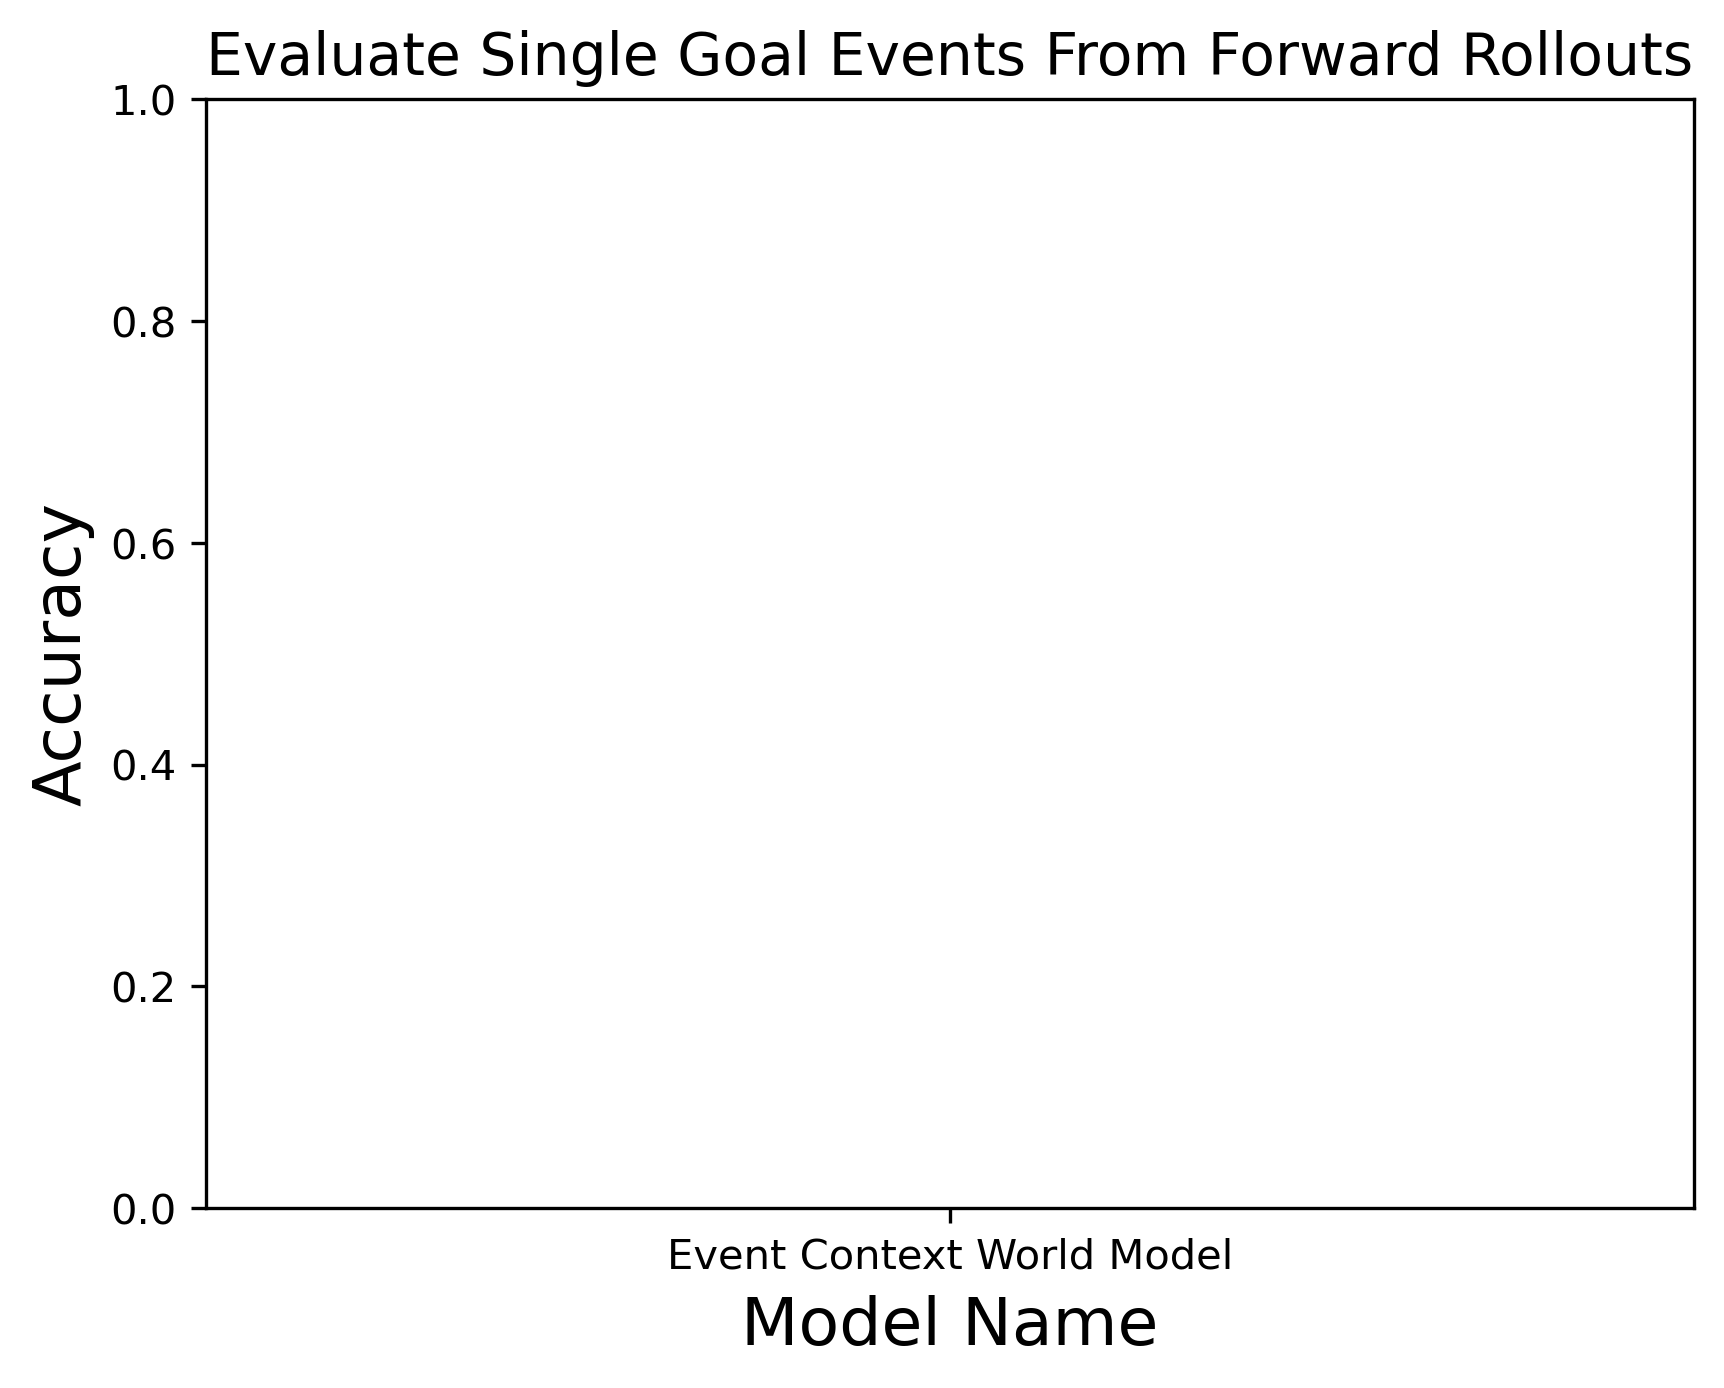
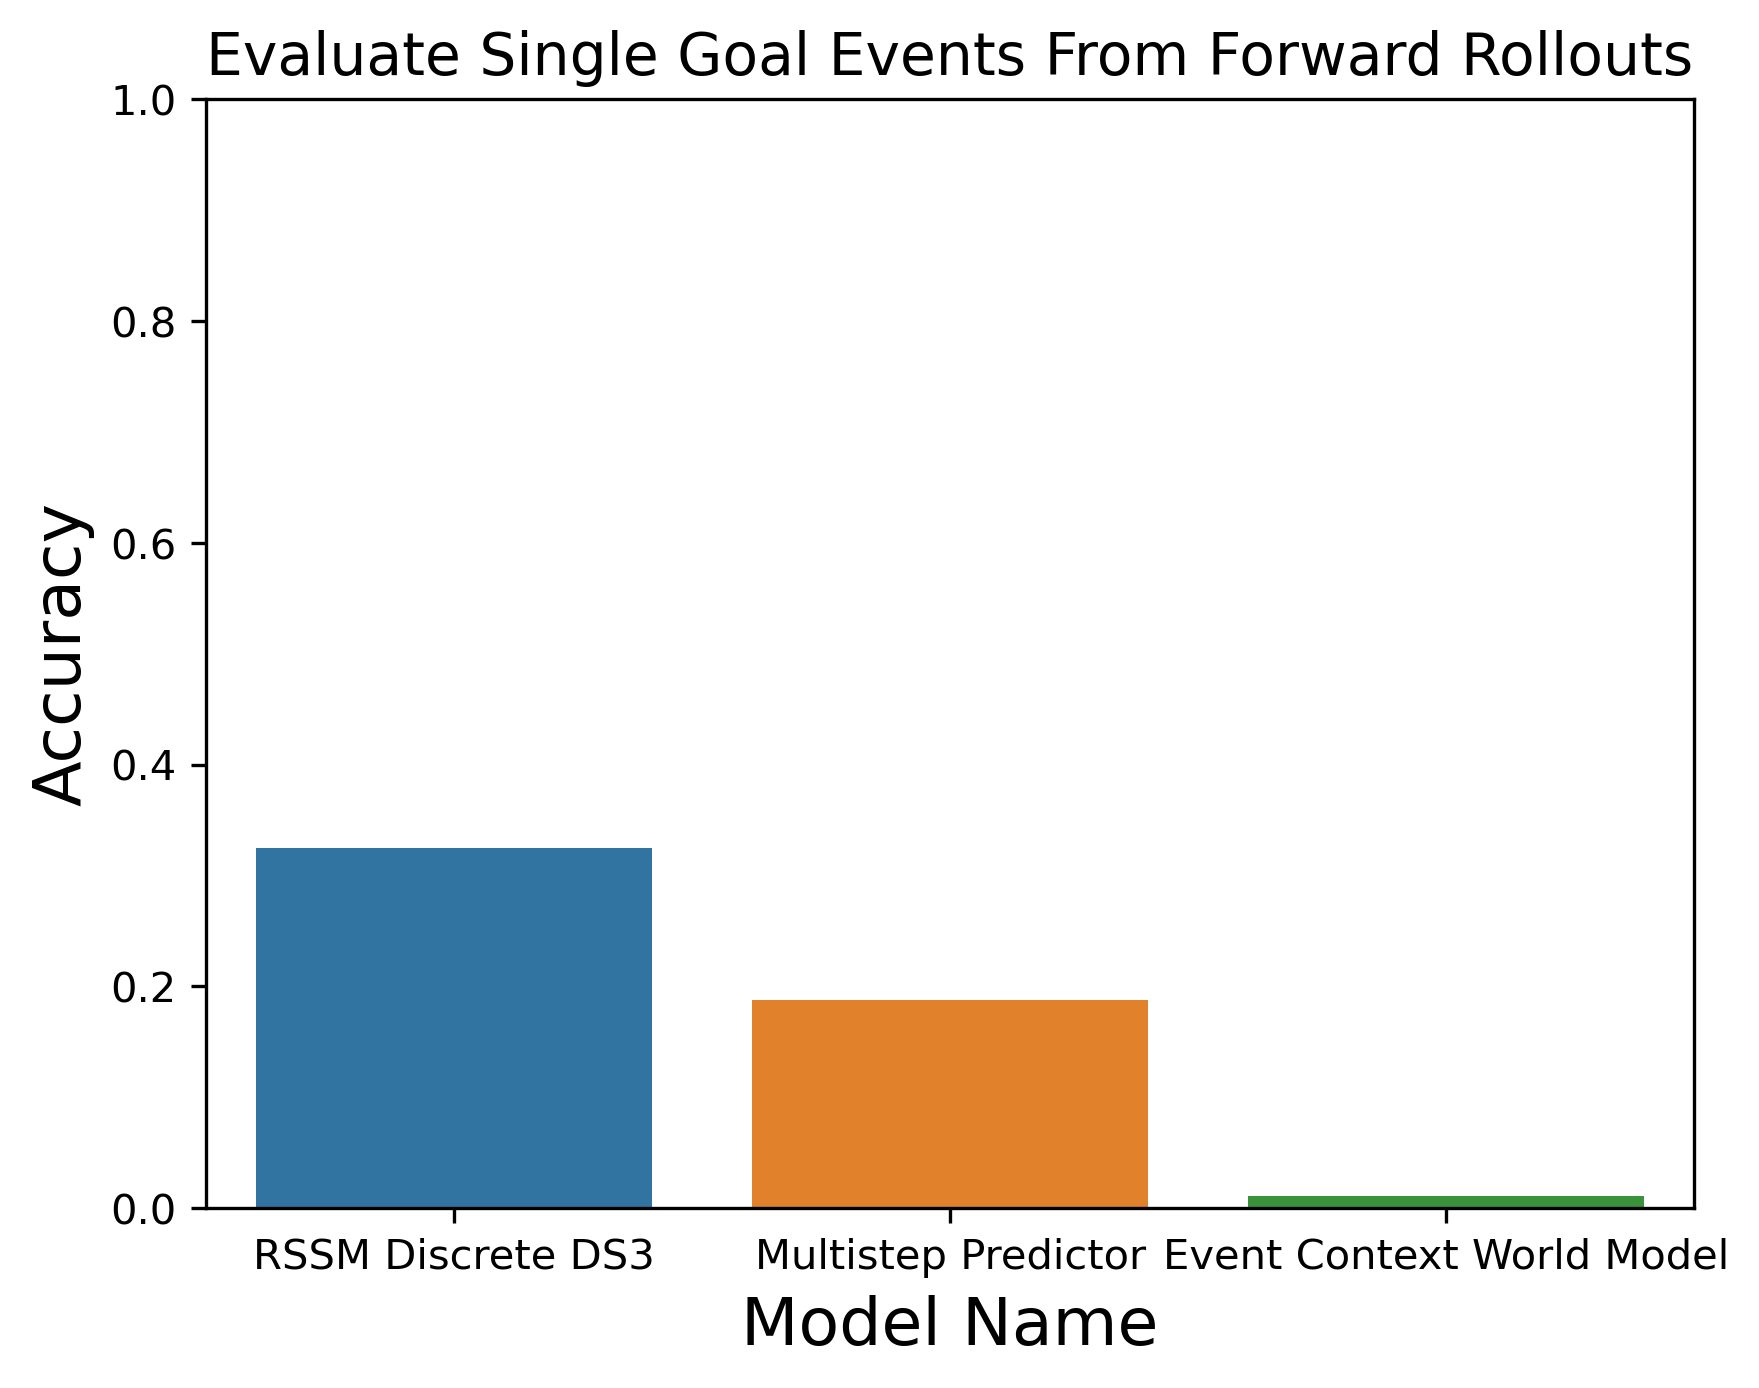
New results

Changed region(s): [[0.0307, 0.0, 0.9838, 0.9914], [0.0615, 0.8674, 0.0922, 0.8984]]

diff --git a/constants_lc.py b/constants_lc.py
@@ -130,7 +130,7 @@ DEFAULT_VALUES = {
     #'model_keys': ['multistep_pred'],
     #'model_keys': ['imma','gat','rfm','rfm_rnn'],
     #'model_keys': ['rssm_disc_ds2', 'rssm_disc_ds3', 'rssm_cont_ds3', 'mp_ds3', 'md_ds3', 'transformer_iris'],
-    'model_keys': ['rssm_disc_ds3', 'mp_ds2', 'transformer_iris', 'event_context_mp'],
+    'model_keys': ['rssm_disc_ds3', 'mp_ds2', 'event_context_mp'],
     'eval_types': ['goal_events', 'multigoal_events', 'move_events', 'pickup_events', 'displacement'],
     'move_threshold': 4.0,
     'non_goal_burn_in': 50,
